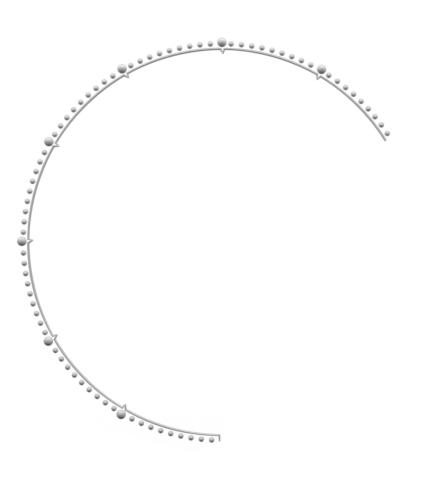
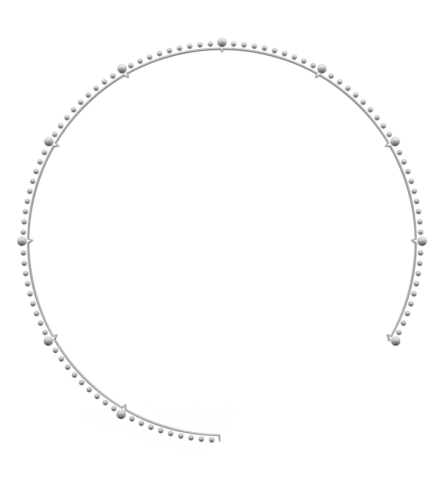
Optimize white indents (#11)
* Removed second white circle rotation draw

* Add files via upload

Updated white circle to 10k rpms.

Changed region(s): [[0.5011, 0.0625, 0.9728, 0.7188]]

diff --git a/LFA.qml b/LFA.qml
@@ -1282,19 +1282,5 @@ Item {
                 visible: showDashboard            
             }
         }
-
-        ////////// GAUGE DIAL INDENTS ////////////////////////////////////////
-        Image {
-            id: white_indent1
-            x: 122
-            y: 0
-            z: 3
-            width: 200
-            height: 480
-            fillMode: Image.PreserveAspectCrop
-            rotation: 60
-            source: "assets/white_indents_0_0.png"
-            visible: showDashboard            
-        }
     }
 }
